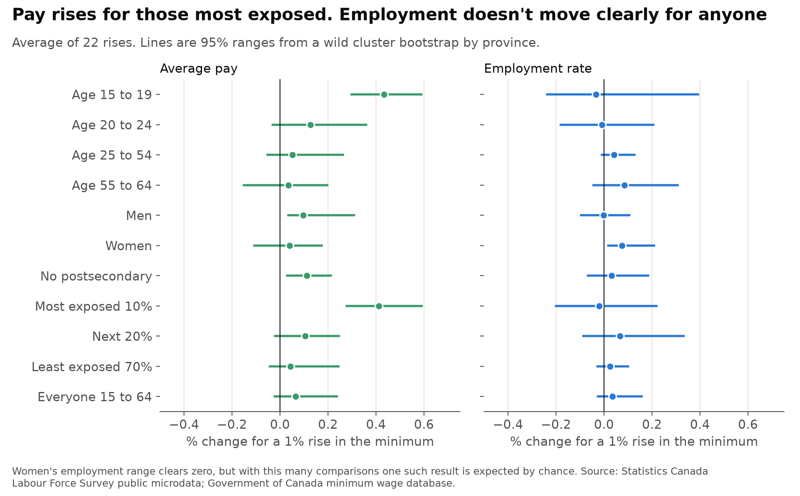
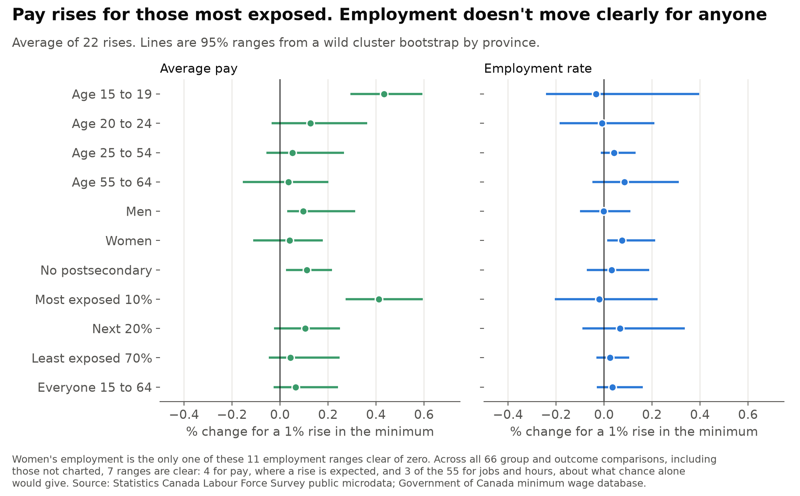
Add the minimum wage checks and correct its comparison counts

diff --git a/canada-minimum-wage.html b/canada-minimum-wage.html
@@ -138,17 +138,18 @@
       <img src="img/minwage-placebo.png" srcset="img/minwage-placebo-800.png 800w, img/minwage-placebo.png 1600w" sizes="(max-width: 860px) calc(100vw - 2.5rem), 816px" alt="Comparison of employment elasticities from real rises with the range from made-up rises. The real estimates sit near zero, inside the made-up range, for all four groups." width="1600" height="672" loading="lazy" />
       <figcaption>Employment elasticities from the real rises against the range from made-up rises.</figcaption>
     </figure>
-    <p>To test the method, I drew 22 made-up rises from province-months with no real one, 4,000 times. For teens, 95% of those results fall between −0.29 and 0.31, so a real effect smaller than about that can't be told apart from noise. Using only the 10 rises of at least 6% gives −0.15 for teens (−0.40 to 0.29), and an annual panel using every rise gives −0.09 (−0.49 to 0.39). These data rule out large teen job losses, but not small ones.</p>
+    <p>To test the method, I drew 22 made-up rises from province-months with no real one, 4,000 times. For teens, 95% of those results fall between −0.29 and 0.31, so a real effect smaller than about that can't be told apart from noise. Using only the 10 rises of at least 6% gives −0.15 for teens (−0.40 to 0.29). An annual panel using every rise gives −0.09 (−0.49 to 0.39), or −0.01 (−0.37 to 0.40) without 2020-21. Keeping only the first rise where windows in a province overlap gives 0.02 (−0.20 to 0.43) on 17 rises. These data rule out large teen job losses, but not small ones.</p>
   </section>
 
   <section class="section" id="spillovers">
     <h2>3. How far up do raises reach?</h2>
     <ul class="tags"><li>Province-year panel, 2006-2025</li><li>Province and year effects</li><li>Province trends</li><li>Every rise, large or small</li></ul>
     <figure>
-      <img src="img/minwage-spillovers.png" srcset="img/minwage-spillovers-800.png 800w, img/minwage-spillovers.png 1600w" sizes="(max-width: 860px) calc(100vw - 2.5rem), 816px" alt="Line chart of the pay response at each percentile. It starts at 0.83 at the 5th percentile, falls to 0.23 at the 25th and flattens near 0.15 from the 40th, where the range includes zero." width="1600" height="896" loading="lazy" />
+      <img src="img/minwage-spillovers.png" srcset="img/minwage-spillovers-800.png 800w, img/minwage-spillovers.png 1600w" sizes="(max-width: 860px) calc(100vw - 2.5rem), 816px" alt="Line chart of the pay response at each percentile. It starts at 0.83 at the 5th percentile, falls to 0.23 at the 25th and 0.18 at the 40th, where the range starts to include zero, then holds at 0.13 to 0.14 from the 55th to the 70th and ends at 0.10 at the 75th." width="1600" height="896" loading="lazy" />
       <figcaption>Pay response at each point in the pay scale, with 95% ranges.</figcaption>
     </figure>
-    <p>A 1% higher minimum lifts pay by 0.83% at the 5th percentile (0.78 to 0.96), 0.60% at the 10th (0.48 to 0.87) and 0.23% at the 25th (0.12 to 0.36). From the 40th percentile the range includes zero. The flat 0.13 to 0.14 near the top suggests that part of the lower numbers is general pay growth in the same provinces, not the minimum itself.</p>
+    <p>A 1% higher minimum lifts pay by 0.83% at the 5th percentile (0.78 to 0.96), 0.60% at the 10th (0.48 to 0.87) and 0.23% at the 25th (0.12 to 0.36). From the 40th percentile the range includes zero. The 0.13 to 0.14 from the 55th to the 70th percentile (0.10 at the 75th) suggests that part of the lower numbers is general pay growth in the same provinces, not the minimum itself.</p>
+    <p>These estimates use every year from 2006 to 2025, including 2020 and 2021, when low-paid job losses changed who was left in the pay scale. That change isn't a minimum wage effect, so I reran the panel without those two years. It gives 0.82% at the 5th percentile (0.76 to 0.95), 0.60% at the 10th (0.46 to 0.87) and 0.23% at the 25th (0.10 to 0.37), and the range still includes zero from the 40th. No percentile moves by as much as 0.02, so the numbers above stay as the main ones.</p>
   </section>
 
   <section class="section" id="who">
@@ -163,7 +164,7 @@
       <img src="img/minwage-groups.png" srcset="img/minwage-groups-800.png 800w, img/minwage-groups.png 1600w" sizes="(max-width: 860px) calc(100vw - 2.5rem), 816px" alt="Two panels of elasticities by group. Pay rises clearly for ages 15 to 19 and the most exposed 10%. Employment ranges include zero for every group but women." width="1600" height="992" loading="lazy" />
       <figcaption>Pay and employment by group, with 95% ranges.</figcaption>
     </figure>
-    <p>The most exposed 10% see average pay rise 0.41% per 1% rise (0.27 to 0.59), close to teens at 0.43% (0.29 to 0.59). Their employment moves by −0.02 (−0.21 to 0.22) and hours per person by −0.10 (−0.32 to 0.24). Women's employment is the one range clear of zero, but among this many comparisons one such result is expected by chance.</p>
+    <p>The most exposed 10% see average pay rise 0.41% per 1% rise (0.27 to 0.59), close to teens at 0.43% (0.29 to 0.59). Their employment moves by −0.02 (−0.21 to 0.22) and hours per person by −0.10 (−0.32 to 0.24). In the chart's employment panel, women's employment is the only one of 11 ranges clear of zero (0.08, 0.01 to 0.21). Across all 66 group and outcome comparisons in the results files, 7 ranges are clear of zero. Four are for pay, where a rise is expected: teens, the most exposed 10%, men and people with no postsecondary education. The other three are among the 55 comparisons for jobs and hours: women's employment, the share of women who are employees, and food jobs in the next 20% by exposure. Chance alone would put about 3 of 55 outside a 95% range, so these three don't stand out as effects.</p>
   </section>
 
   <section class="section">
@@ -175,7 +176,7 @@
         <tr><td>Alberta</td><td>Oct 2015</td><td>$10.20 to $11.20</td><td>−0.7</td><td>+0.8</td><td>−2.0</td></tr>
         <tr><td>Alberta</td><td>Oct 2016</td><td>$11.20 to $12.20</td><td>−1.3</td><td>+1.5</td><td>−0.4</td></tr>
         <tr><td>Alberta</td><td>Oct 2017</td><td>$12.20 to $13.60</td><td>−2.1</td><td>+1.0</td><td>+0.4</td></tr>
-        <tr><td>Alberta</td><td>Oct 2018</td><td>$13.60 to $15.00</td><td>−3.1</td><td>+2.7</td><td>+0.0</td></tr>
+        <tr><td>Alberta</td><td>Oct 2018</td><td>$13.60 to $15.00</td><td>−3.1</td><td>+2.7</td><td>0.0</td></tr>
         <tr><td>British Columbia</td><td>Nov 2011</td><td>$8.38 to $9.88</td><td>−1.3</td><td>+1.5</td><td>+0.5</td></tr>
         <tr><td>British Columbia</td><td>Jun 2018</td><td>$11.22 to $12.65</td><td>−3.5</td><td>+2.8</td><td>−0.1</td></tr>
         <tr><td>New Brunswick</td><td>Jan 2007</td><td>$6.60 to $7.12</td><td>−1.0</td><td>+0.7</td><td>+0.2</td></tr>
@@ -192,16 +193,16 @@
         <tr><td>Prince Edward Island</td><td>Oct 2011</td><td>$9.10 to $9.80</td><td>−3.3</td><td>+3.3</td><td>+0.9</td></tr>
         <tr><td>Quebec</td><td>May 2018</td><td>$11.25 to $12.00</td><td>−3.1</td><td>+2.9</td><td>+0.1</td></tr>
         <tr><td>Saskatchewan</td><td>Dec 2012</td><td>$9.50 to $10.00</td><td>−0.9</td><td>+0.3</td><td>−0.3</td></tr>
-        <tr><td>Saskatchewan</td><td>Oct 2024</td><td>$14.00 to $15.00</td><td>−1.8</td><td>+1.3</td><td>−0.0</td></tr>
+        <tr><td>Saskatchewan</td><td>Oct 2024</td><td>$14.00 to $15.00</td><td>−1.8</td><td>+1.3</td><td>0.0</td></tr>
       </tbody>
     </table>
-    <p class="hint">Changes are employees per 100 people aged 15 to 64, against comparison provinces. Single rises are noisy, especially in small provinces.</p>
+    <p class="hint">Changes are employees per 100 people aged 15 to 64, against comparison provinces. Single rises are noisy, especially in small provinces. Average rates are the mean of the 12 months on each side, so they can differ from the rate just before a rise: Ontario's was $11.60 in December 2017 but averaged $11.45 over 2017, because it was $11.40 until October.</p>
   </section>
 
   <section class="section">
     <h2>How it works</h2>
     <p>The survey has no person identifier, so these are repeated samples of people, not the same people followed over time. Each rise compares the 12 months before with the 12 months after, against the average of provinces without a large rise. With about ten provinces, ordinary clustered errors are far too narrow, so ranges come from a wild cluster bootstrap with Webb weights, inverted into a 95% range.</p>
-    <p>Rises whose window touches March 2020 to December 2021 are dropped. So are rises with fewer than two clean comparison provinces, which leaves Manitoba with no rise of its own in the study and thins out 2008-2010, when many provinces moved at once.</p>
+    <p>Rises whose window touches March 2020 to December 2021 are dropped. So are rises with fewer than two clean comparison provinces, which leaves Manitoba with no rise of its own in the study and thins out 2008-2010, when many provinces moved at once. The two annual panels, for pay across the scale and for jobs using every rise, keep 2020 and 2021. Sections 2 and 3 report reruns without those years.</p>
   </section>
 
   <section class="section">
@@ -209,6 +210,7 @@
     <ul>
       <li>Twelve months is short. Jobs that adjust over several years, through fewer new businesses or more automation, won't show up here.</li>
       <li>Comparison provinces overlap across rises, and a province can hit its own shock at the same time. Alberta's rises came alongside the 2015-16 oil slump, though dropping Alberta leaves the result about the same.</li>
+      <li>Rises in the same province can overlap. Eight of the 22 have another 12 to 16 months away: Alberta 2015 to 2018, New Brunswick 2010 and 2011, and Prince Edward Island 2010 and 2011. The months before the later rise are then also months after the earlier one, all 12 of them in Alberta and New Brunswick and 8 of 12 in Prince Edward Island, so a delayed response to one rise can end up in the starting point of the next. Keeping only the first rise of each run drops Alberta's October 2016, 2017 and 2018, New Brunswick's April 2011 and Prince Edward Island's October 2011. That leaves 17 rises and about the same result: teen employment 0.02 (−0.20 to 0.43). Smaller rises that don't count as events can still fall inside a window.</li>
       <li>Pay is self-reported and often rounded. Lower legal rates for students and, in some provinces, liquor servers mean some reported pay below the minimum is legal.</li>
       <li>Provinces raise the minimum when they choose to, often in good times. Province trends help but don't remove this.</li>
       <li>Teen employment drifts up before rises and back after. It stays inside the range, but with these data I can't tell if that is timing or noise.</li>
